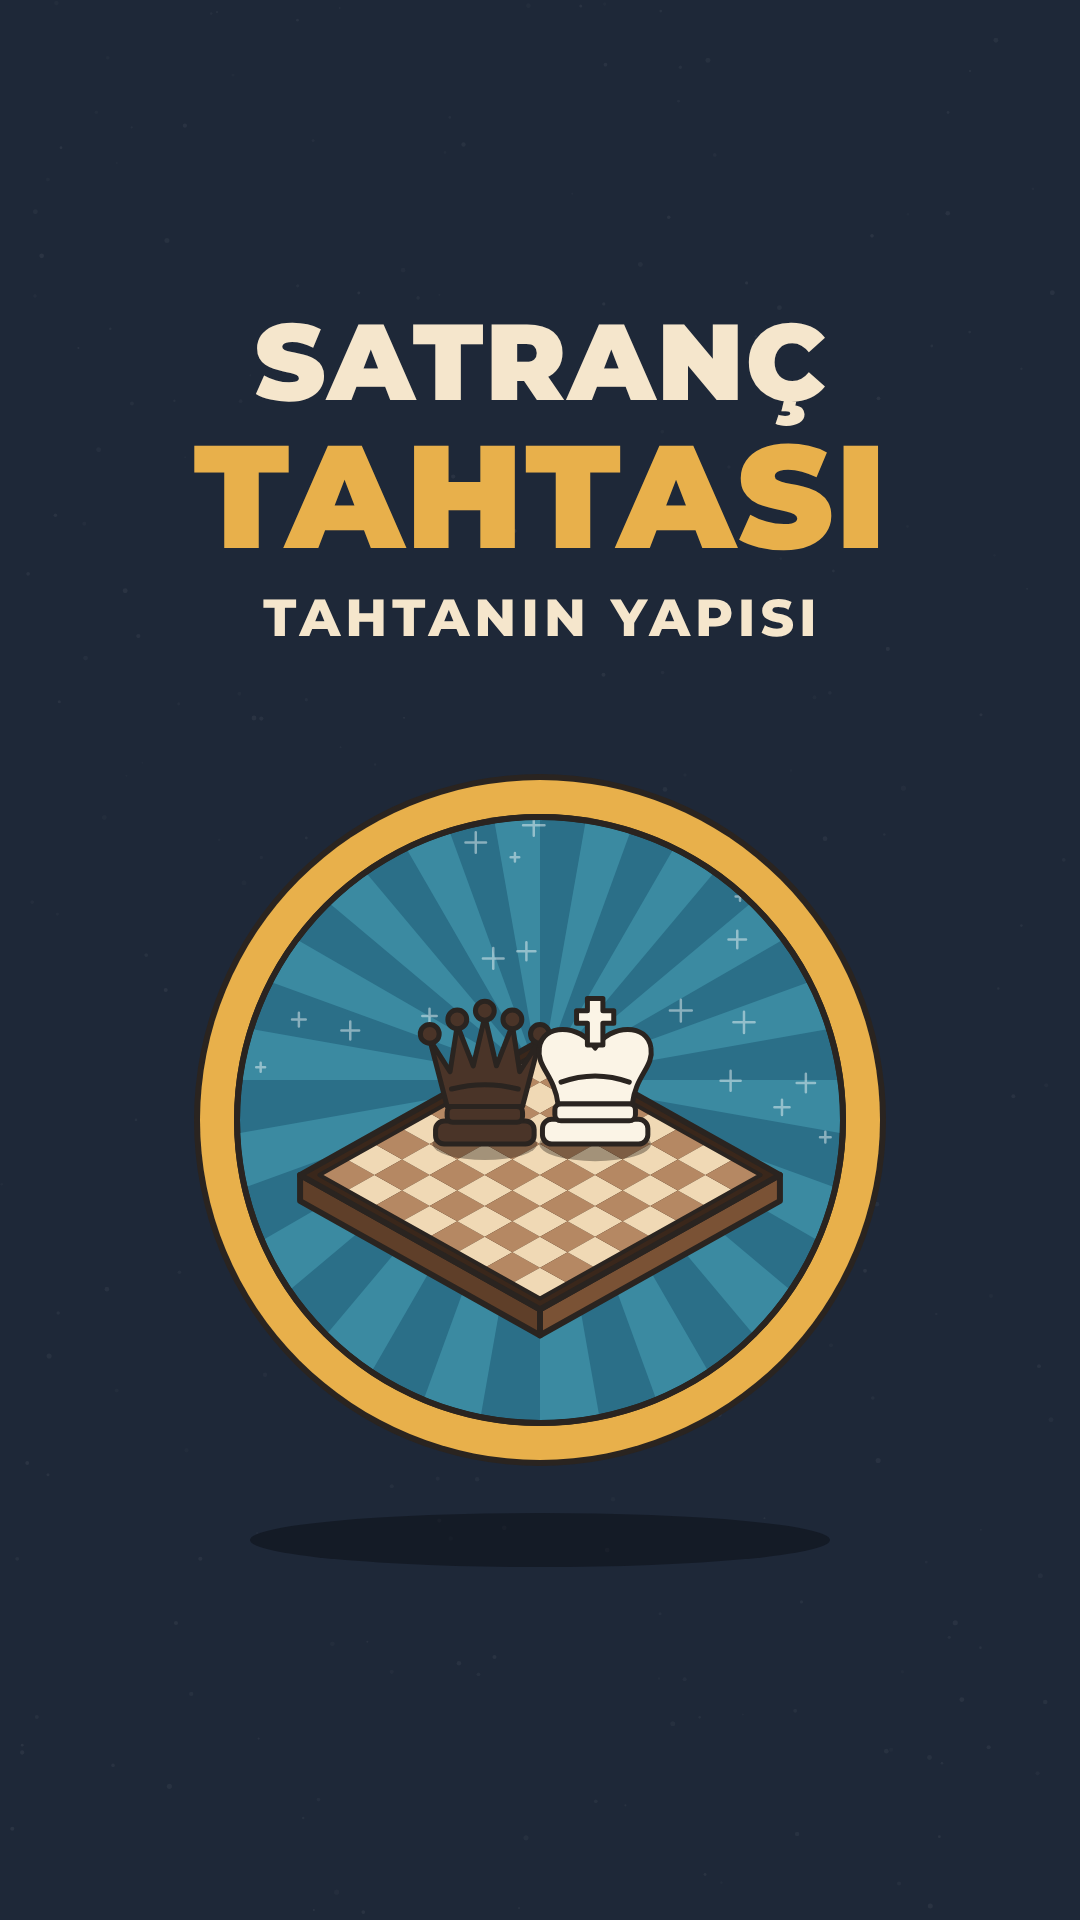
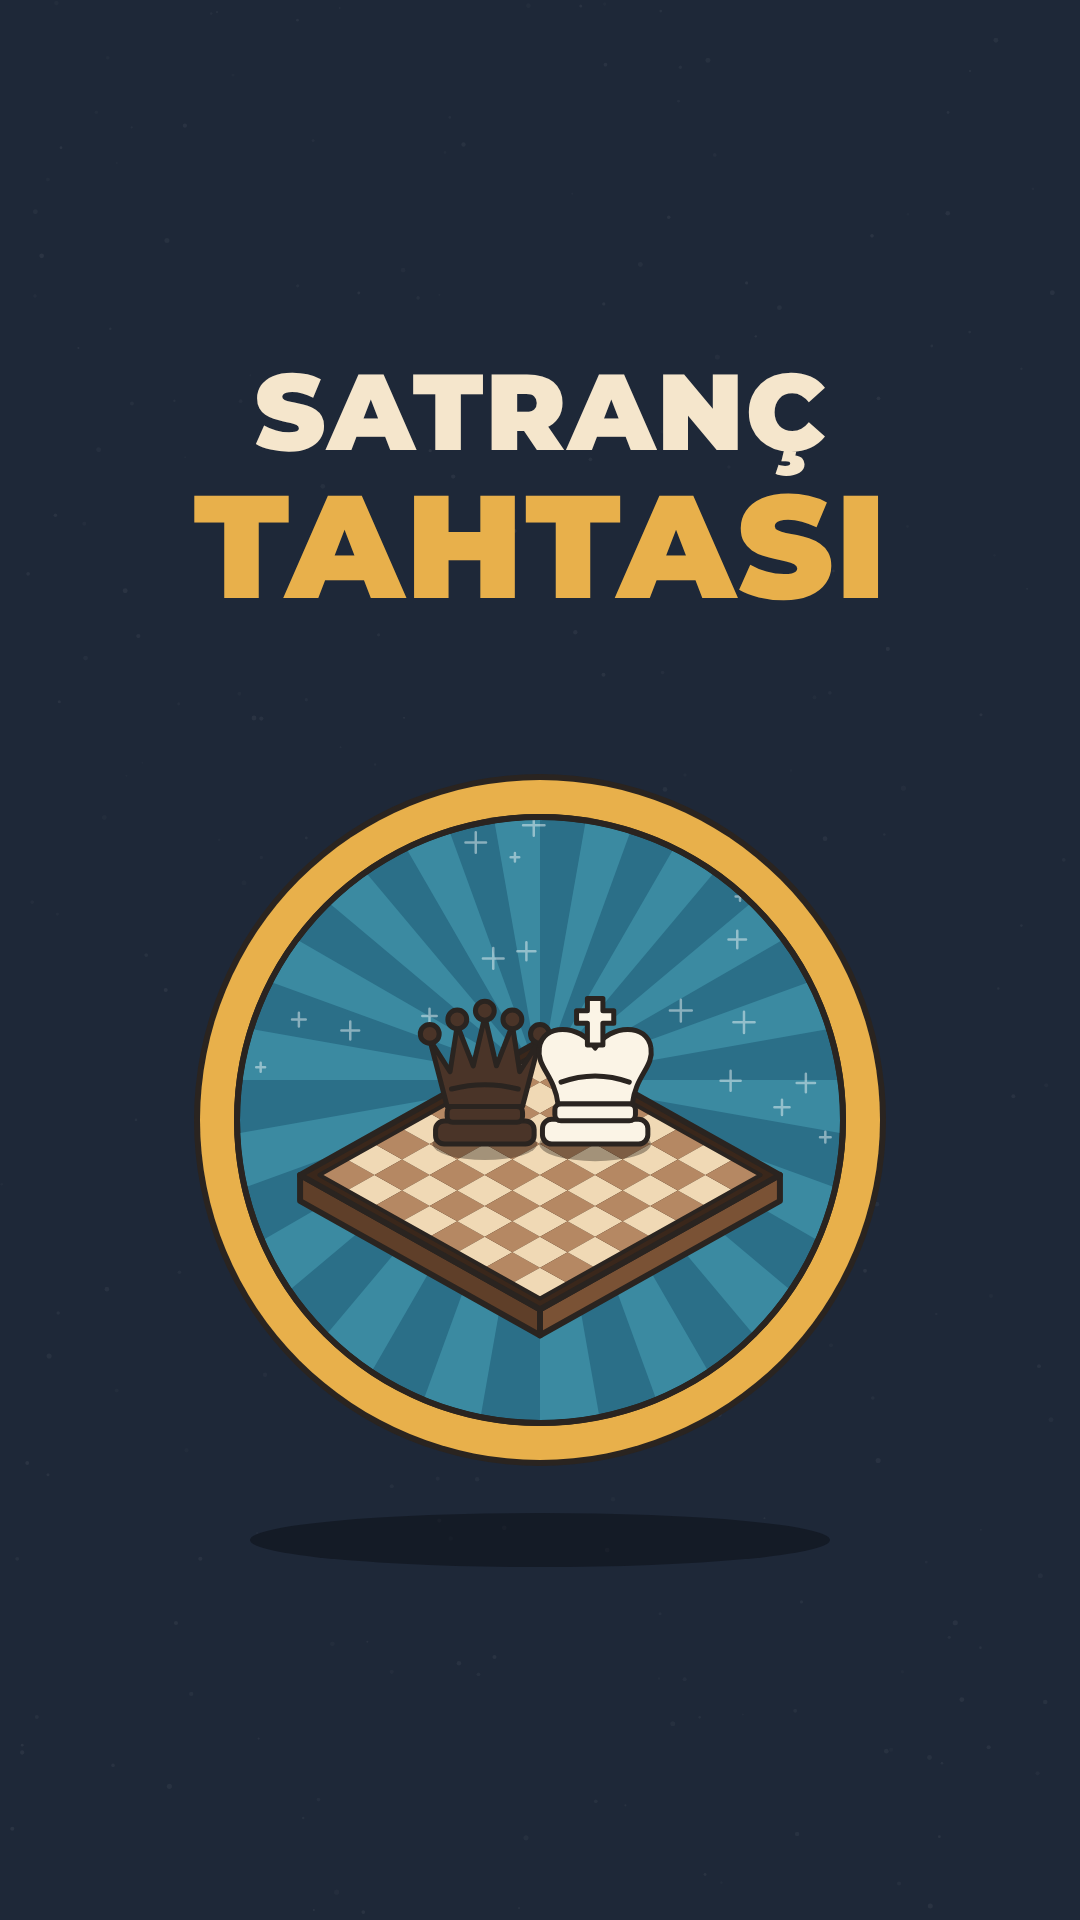
Satranç cover: title only
Claude-Session: https://claude.ai/code/session_01BVFJ2P3WWWC1NSuwcSP133

Changed region(s): [[0.1833, 0.1562, 0.825, 0.3438]]

diff --git a/satranc/cover/cover.html b/satranc/cover/cover.html
@@ -39,9 +39,8 @@
   };
 
   // title block
-  text('SATRANÇ', W / 2, 400, fit('SATRANÇ', 900, 108, 760, 2), 900, C.cream, 2);
-  text('TAHTASI', W / 2, 548, fit('TAHTASI', 900, 146, 820, 2), 900, C.gold, 2);
-  text('TAHTANIN YAPISI', W / 2, 636, 52, 800, C.cream, 5);
+  text('SATRANÇ', W / 2, 450, fit('SATRANÇ', 900, 108, 760, 2), 900, C.cream, 2);
+  text('TAHTASI', W / 2, 598, fit('TAHTASI', 900, 146, 820, 2), 900, C.gold, 2);
 
   // medallion
   const MX = W / 2, MY = 1120, R = 340, RI = 300;
